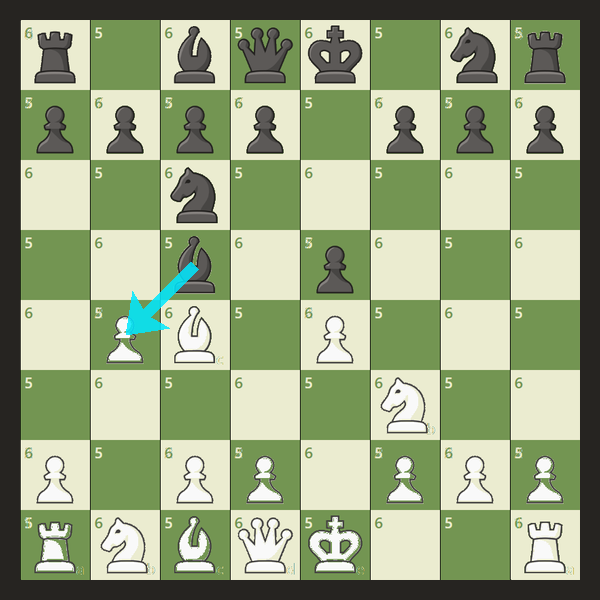
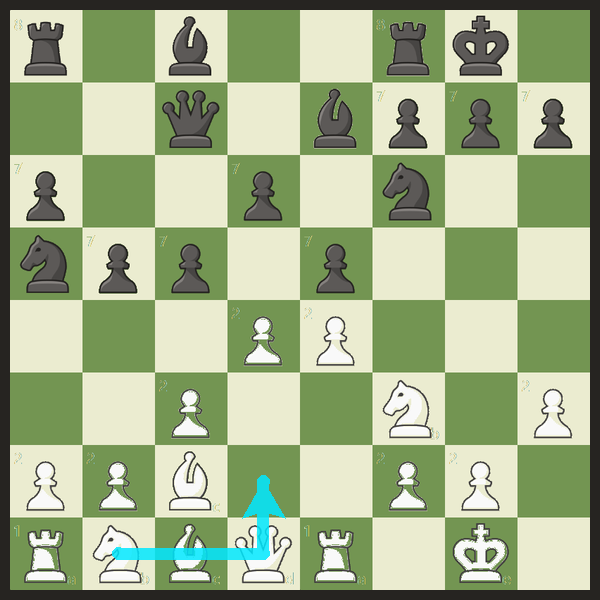
docs: show a real middlegame in the README, not move four
The old shot was four plies in, where the arrow points at a move anyone would
find, and it carried the stray rank labels the renderer used to bake onto all
64 squares. This one is a Ruy Lopez twenty-two plies deep, rendered with the
fixed renderer, and mkshot.py regenerates it rather than leaving the next
person to take a screenshot by hand.

Checked rather than eyeballed: templates learned from the real 1.png read the
rendered position back with zero mismatches, so the picture is the position it
claims to be.

diff --git a/chesswatch/mkshot.py b/chesswatch/mkshot.py
@@ -1,0 +1,36 @@
+"""Regenerate docs/arrow.png: a real middlegame, not move two, and without the
+stray rank labels the old renderer baked onto all 64 squares."""
+import chess
+from PIL import Image
+import watcher as W
+from fakeboard import Renderer
+import overlaytest as OT
+
+# 1.png is the position after 1.e4 c5 2.d4 e6, so the renderer has to be told
+# that rather than assuming the opening, or every sprite comes from the wrong
+# square.
+ref = chess.Board()
+for san in ("e4", "c5", "d4", "e6"):
+    ref.push_san(san)
+
+img = Image.open("testdata/1.png").convert("RGB")
+rect = W.find_board(img)
+r = Renderer("testdata/1.png", rect, board=ref)
+
+# Ruy Lopez, Chigorin. Both sides castled, both knights out, tension in the
+# centre: a position that looks like a game rather than an opening.
+game = chess.Board()
+for san in ("e4", "e5", "Nf3", "Nc6", "Bb5", "a6", "Ba4", "Nf6", "O-O", "Be7",
+            "Re1", "b5", "Bb3", "O-O", "c3", "d6", "h3", "Na5", "Bc2", "c5",
+            "d4", "Qc7"):
+    game.push_san(san)
+
+SIDE, PAD = 580, 10
+board = r.render(game).resize((SIDE, SIDE), Image.LANCZOS)
+board = OT.paint_arrow(board, (0, 0, SIDE, SIDE), chess.Move.from_uci("b1d2"))
+
+out = Image.new("RGB", (SIDE + PAD * 2, SIDE + PAD * 2), (38, 36, 33))
+out.paste(board, (PAD, PAD))
+out.save("arrow_new.png")
+print("wrote arrow_new.png", out.size, "| position after 22 plies")
+print("legal:", game.is_valid(), "| pieces:", len(game.piece_map()))

diff --git a/README.md b/README.md
@@ -28,7 +28,9 @@ Nothing signs in, nothing touches an account, and nothing leaves the machine.
           a click-through arrow      drawn on the board itself
 ```
 
-![the arrow over a board](docs/arrow.png)
+![the arrow over a middlegame board](docs/arrow.png)
+
+That is a real position twenty-two plies in, not an opening: the arrow is worth looking at when the board is busy enough that the move is not obvious. Regenerate it with `python mkshot.py` from `chesswatch/`.
 
 It works off pixels alone, so it does not care which site, app or board theme is
 showing the game. If the board is not chess.com green, drag a box around it once
